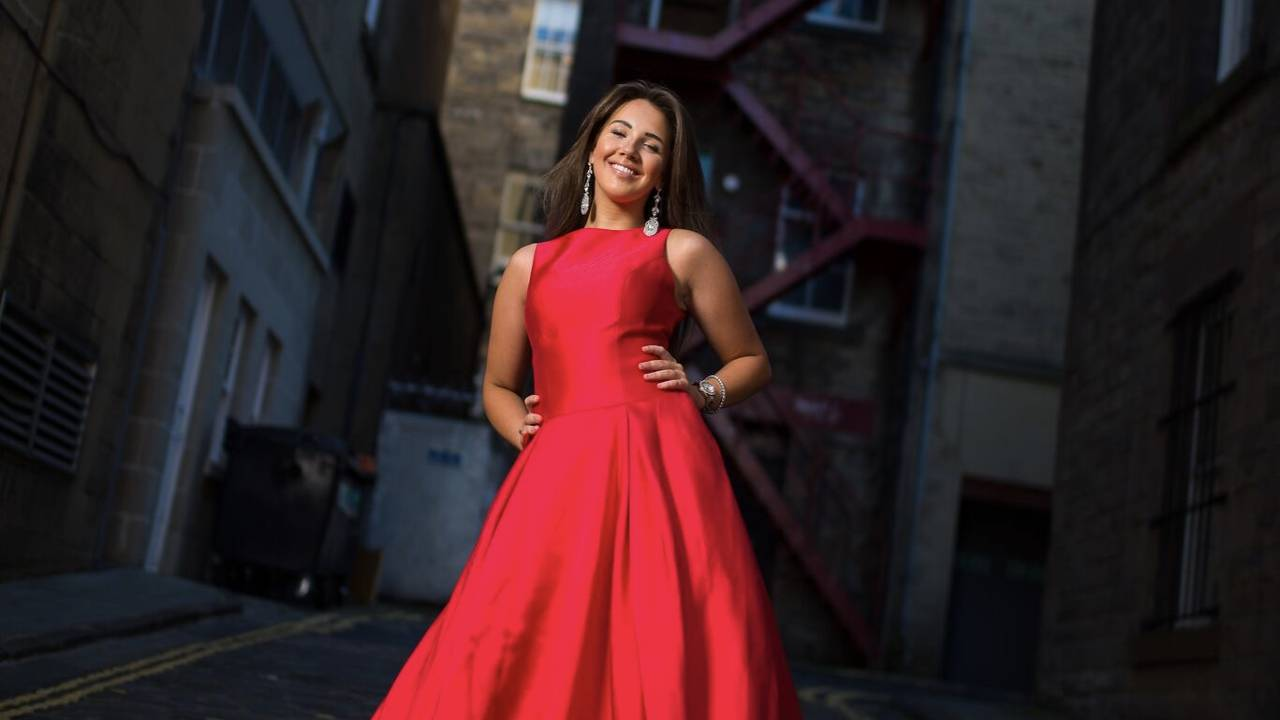
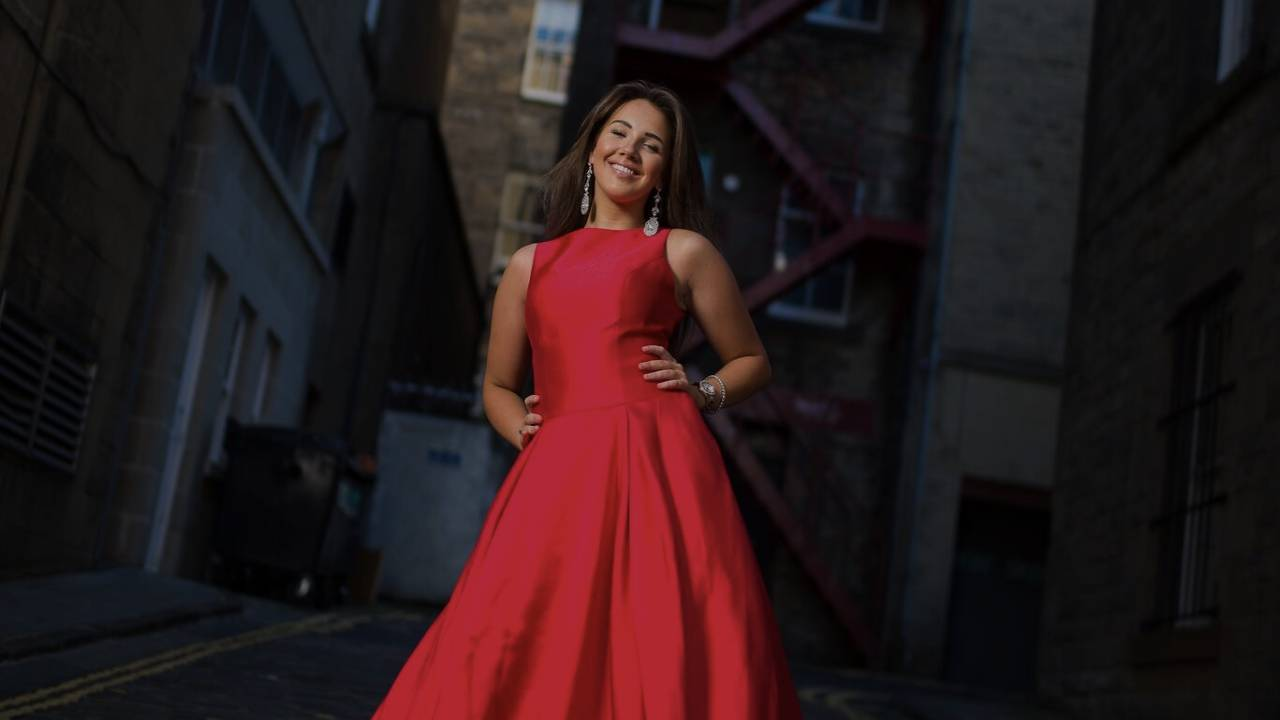
Fixed alignment

diff --git a/index.html b/index.html
@@ -225,7 +225,7 @@
                         data-param2="" data-param3="" data-param4="" data-param5="" data-param6="" data-param7=""
                         data-param8="" data-param9="" data-param10="" data-description="">
                         <!-- MAIN IMAGE -->
-                        <img src="images/banner11.jpg" alt="" data-bgposition="center top" data-kenburns="on"
+                        <img src="images/banner11.jpg" alt="" data-bgposition="center" data-kenburns="on"
                             data-duration="30000" data-ease="Linear.easeNone" data-scalestart="100" data-scaleend="130"
                             data-rotatestart="0" data-rotateend="0" data-blurstart="0" data-blurend="0"
                             data-offsetstart="0 0" data-offsetend="0 500" data-bgparallax="4" class="rev-slidebg"
@@ -241,7 +241,7 @@
                             data-frames='[{"delay":500,"speed":1000,"frame":"0","from":"opacity:0;","to":"o:1;","ease":"Power4.easeOut"},{"delay":"wait","speed":300,"frame":"999","to":"opacity:0;","ease":"Power3.easeInOut"}]'
                             data-textAlign="['inherit','inherit','inherit','inherit']" data-paddingtop="[0,0,0,0]"
                             data-paddingright="[0,0,0,0]" data-paddingbottom="[0,0,0,0]" data-paddingleft="[0,0,0,0]"
-                            data-blendmode="screen" style="z-index: 5;background-color:rgba(0,38,59,1);"> </div>
+                            data-blendmode="screen" style="z-index: 5;background-color:#313639;"> </div>
 
                         <!-- LAYER NR. 2 -->
                         <div class="tp-caption tp-resizeme" id="slide-14-layer-6"
@@ -256,7 +256,7 @@
                             data-paddingleft="[20,20,20,20]" data-blendmode="overlay" style="z-index: 6; white-space: nowrap; font-size: 60px; line-height: 80px; font-weight:
                              700; color: rgba(255,255,255,1);font-family: 'Pacifico', cursive; margin-top:9em;">
                             “Speaks
-                            with a whisper,
+                            with a whisper,<br>
                             sings like a diva...”</div>
 
                         <!-- LAYER NR. 3 -->
@@ -271,7 +271,7 @@
                             data-paddingright="[0,0,0,0]" data-paddingbottom="[0,0,0,0]" data-paddingleft="[0,0,0,0]"
                             data-blendmode="overlay" style="z-index: 7; white-space: nowrap; font-size: 20px; line-height: 25px; font-weight:
                              700; color: rgba(255,255,255,1);font-family: 'Open Sans',
-                             sans-serif;letter-spacing:10px;margin-top:20em;">UNIQUE EVENT ENTERTAINMENT</div>
+                             sans-serif;letter-spacing:10px;margin-top:25em;">UNIQUE EVENT ENTERTAINMENT</div>
                     </li>
                 </ul>
                 <div class="tp-bannertimer tp-bottom" style="visibility: hidden !important;"></div>
